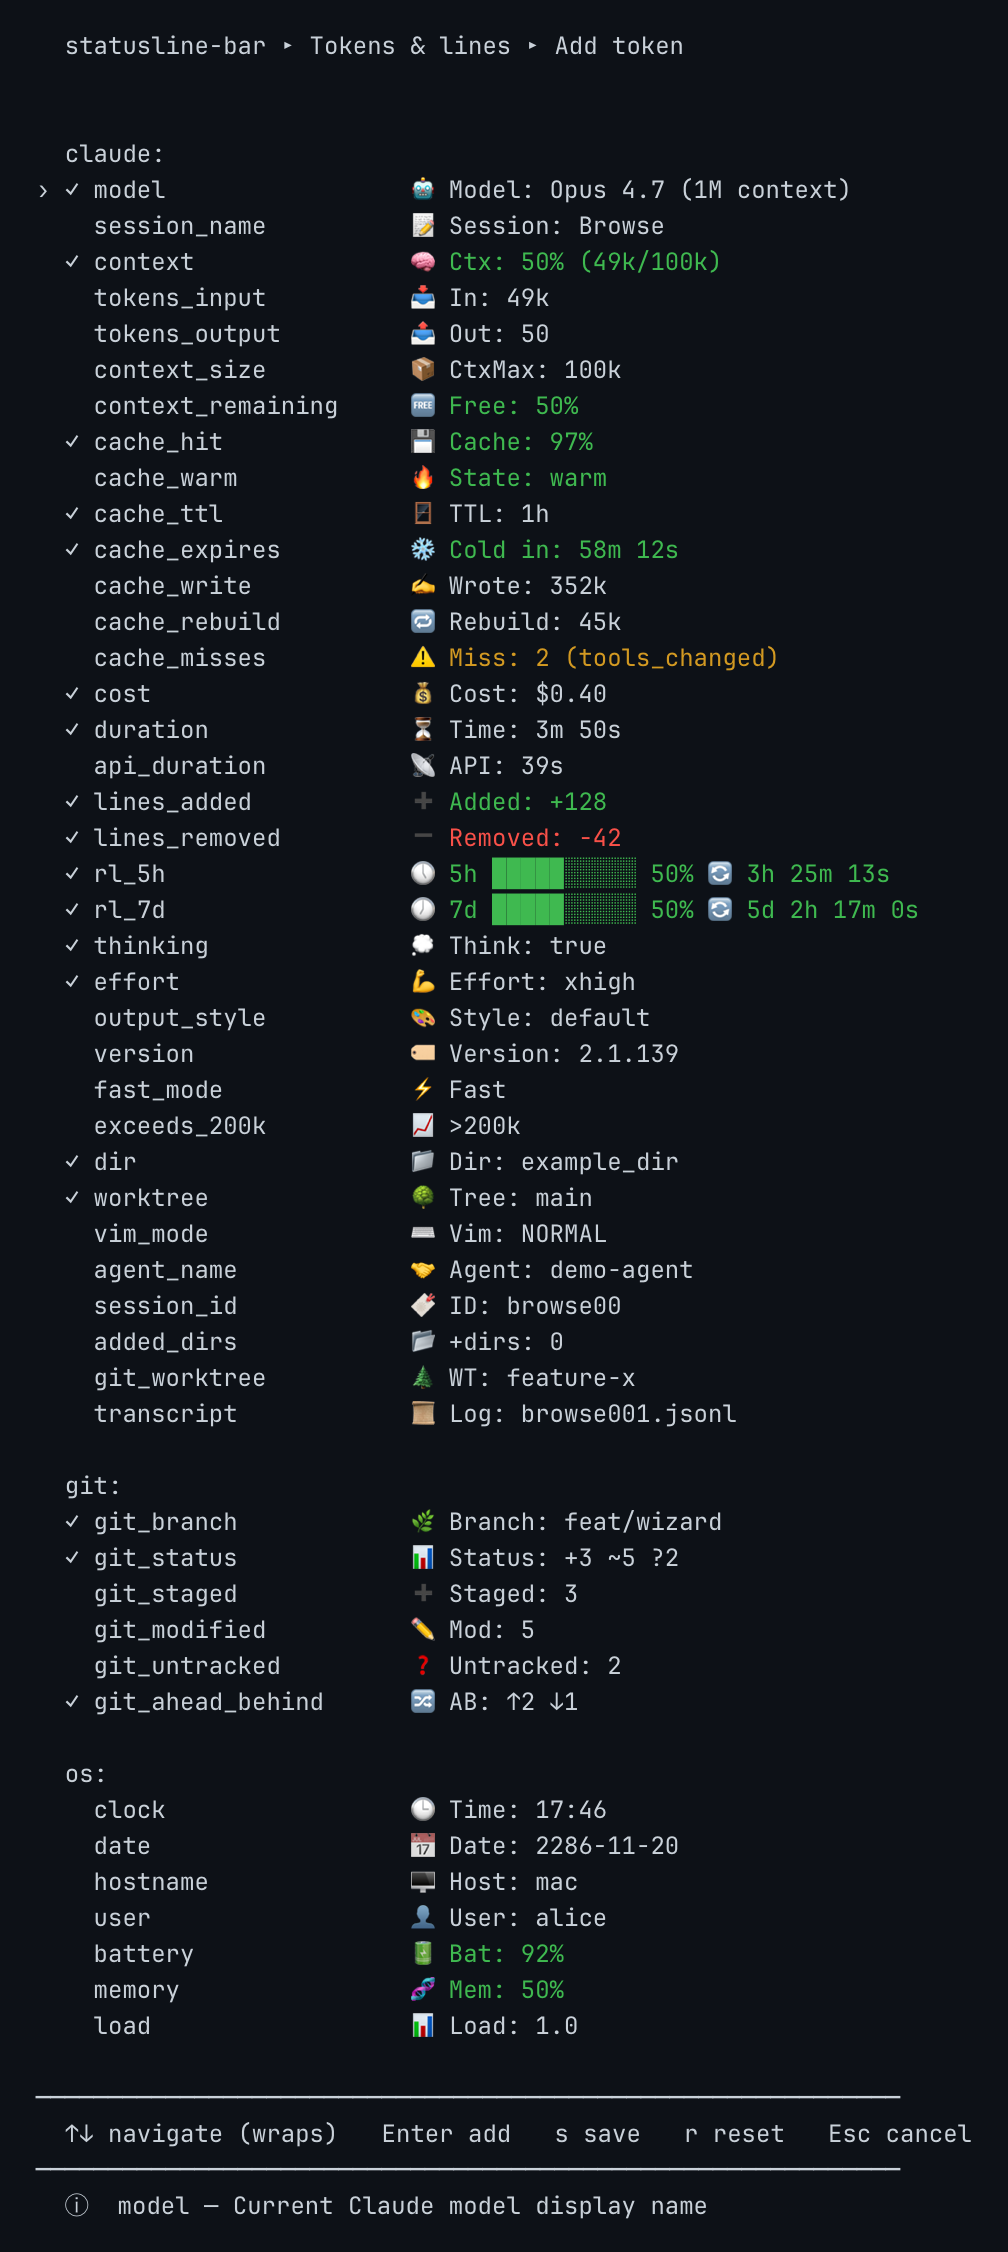
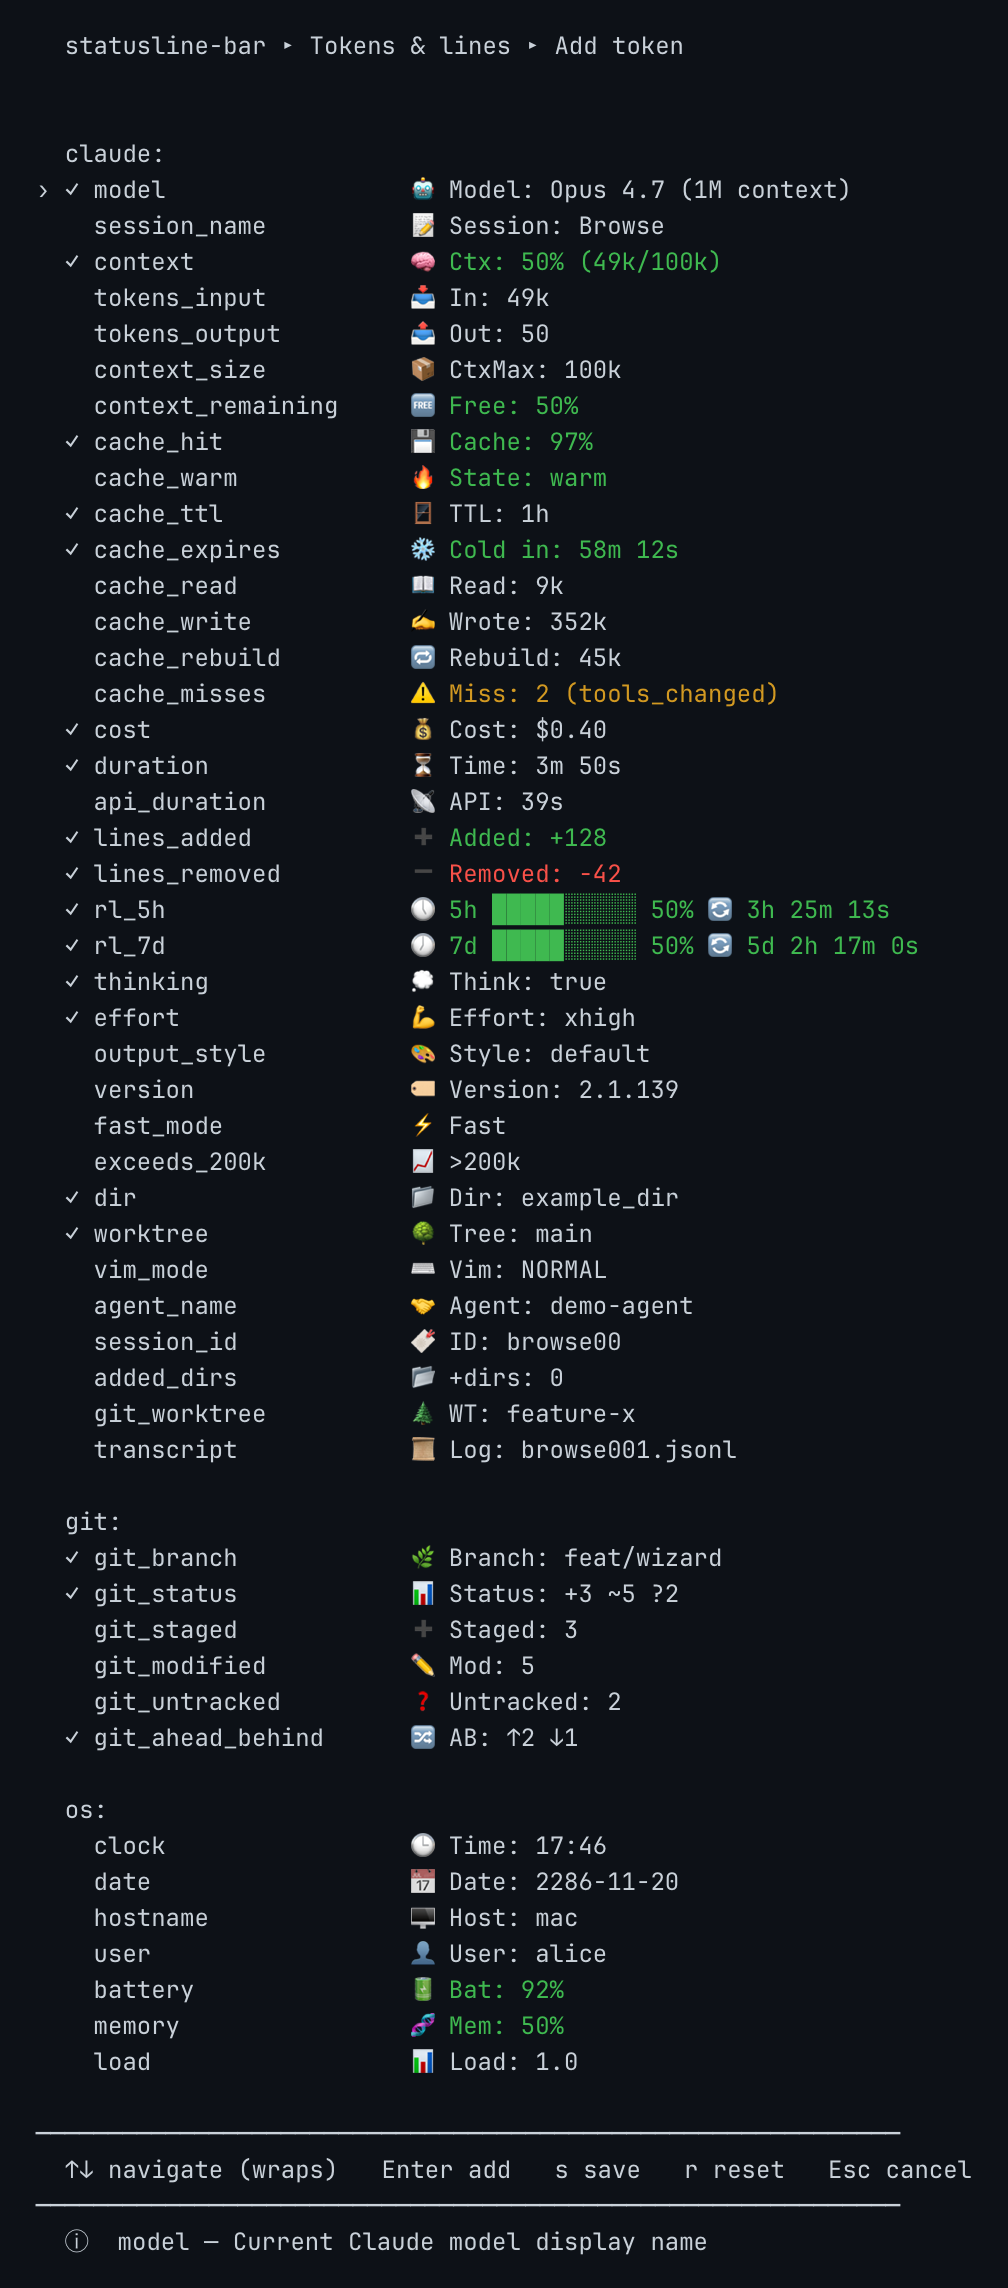
feat: cache_read token — v0.6.1
Adds cache_read, the tokens the last API call read back out of the
prompt cache, as a raw count. cache_hit gives the ratio and cache_write
the writes; on a warm turn the read count is most of what was sent and
nothing surfaced it.

Source is context_window.current_usage.cache_read_input_tokens, not the
prompt_cache object the other cache counters read — so it also works on
Claude Code older than 2.1.251, and it measures ONE API call where its
neighbours are session-cumulative. That window difference is the trap
this token introduces: cache_read and cache_write have parallel names
and sit next to each other. cache_write is NOT renamed (shipped in
0.6.0, ids appear in user configs); instead _token_description names
each window ("this turn" / "this session"), which the wizard picker,
the --examples catalog and the generated docs all inherit.

Hidden at zero, matching cache_write and cache_rebuild: a zero read is
a cold call, which cache_warm and cache_misses already say better.

Prefixes checked against all 49 icons in use, no collisions:
emoji 📖, nerd  (fa-book), label "Read:", ascii "[Rd]".
"[Cr]" was taken by cache_rebuild; "[CW]"/"[Cw]" by context_size and
cache_write, so a case-only variant was avoided.

Joins the cache preset (9 -> 10 tokens, beside cache_write) and the
everything / maximum presets (48 -> 49). Counts re-derived from the
embedded tables everywhere: 49 tokens total, 36 from the Claude
session. All four positionally-parallel preset arrays re-verified at
[…]

diff --git a/REFERENCE.md b/REFERENCE.md
@@ -1,7 +1,7 @@
 # Reference
 
 Every catalog, the config schema, and the full CLI for
-[statusline-bar](README.md) 0.6.0. All of it is also available live in your own
+[statusline-bar](README.md) 0.6.1. All of it is also available live in your own
 terminal — `statusline-bar.sh --examples [SECTION]` prints the same catalogs at
 your terminal's real color depth. The showroom images below ship in light and
 dark variants and switch with your GitHub theme.
@@ -27,11 +27,11 @@ set afterwards are kept.
 | `default` | 2 lines · 18 tokens | usage row on top (model, context, cost, rate limits, cache expiry); thinking / dir / git / counters / cache hit + TTL / duration below. |
 | `modern` | 2 lines · 9 tokens | git staged/modified inline; rate-limit bars + duration on line 2. |
 | `rates` | 2 lines · 8 tokens | context + cost on top; rate limits with bars and countdowns, cache hit + expiry, and api time below. |
-| `cache` | 2 lines · 9 tokens | context + cost on top; prompt-cache health (hit bar, warm, expiry, TTL, misses, writes) below. |
+| `cache` | 2 lines · 10 tokens | context + cost on top; prompt-cache health (hit bar, warm, expiry, TTL, misses, reads + writes) below. |
 | `claude` | 2 lines · 10 tokens | session info + cost/duration; Claude state (thinking, effort, style, version) below. |
 | `fancy` | 3 lines · 13 tokens | context bar, rate-limit bars, OS chrome (battery, clock), git status. |
-| `everything` | 4 lines · 48 tokens | all 48 tokens, each in its default format. Coverage over compactness. |
-| `maximum` | 4 lines · 48 tokens | the same 48 tokens, but with progress bars, countdowns, and combined views wherever a token offers them. |
+| `everything` | 4 lines · 49 tokens | all 49 tokens, each in its default format. Coverage over compactness. |
+| `maximum` | 4 lines · 49 tokens | the same 49 tokens, but with progress bars, countdowns, and combined views wherever a token offers them. |
 
 <picture>
   <source media="(prefers-color-scheme: dark)" srcset="screenshots/showroom_presets_dark.png">
@@ -149,21 +149,26 @@ style. Any token with a bar can override it with `tokens.<id>.bar_style`.
 
 ## Tokens
 
-48 tokens: 35 read out of the JSON Claude Code pipes in, 6 from `git`, 7 from
+49 tokens: 36 read out of the JSON Claude Code pipes in, 6 from `git`, 7 from
 the machine running the statusline. Each token advertises only the formats that
 make sense for its data; the **bold** one is its default.
 
 <picture>
   <source media="(prefers-color-scheme: dark)" srcset="screenshots/showroom_tokens_dark.png">
-  <img src="screenshots/showroom_tokens_light.png" alt="All 48 tokens rendered alone with inline descriptions">
+  <img src="screenshots/showroom_tokens_light.png" alt="All 49 tokens rendered alone with inline descriptions">
 </picture>
 
-### Claude session (35)
+### Claude session (36)
 
 Read from stdin. A token whose field is absent from the payload renders the
-placeholder (or disappears, under `empty_behavior: hide`) — that is what the
-six `cache_*` tokens do on Claude Code versions older than 2.1.251, which do
-not send a `prompt_cache` object.
+placeholder (or disappears, under `empty_behavior: hide`) — that is what six of
+the eight `cache_*` tokens do on Claude Code versions older than 2.1.251, which
+do not send a `prompt_cache` object. `cache_hit` and `cache_read` are the
+exceptions: both fall back on `context_window`, which every version sends.
+
+Mind the window each cache token counts over. `cache_read` is the **last API
+call**; `cache_hit`, `cache_write` and `cache_misses` are **session totals**.
+Each of those four names its window in its description.
 
 | Token | Icon | Description | Formats |
 |---|---|---|---|
@@ -178,6 +183,7 @@ not send a `prompt_cache` object.
 | `cache_warm` | 🔥 | Whether the prompt cache is still warm (warm/cold) | **`value`** `flag` |
 | `cache_ttl` | 🪟 | Prompt cache lifetime tier (5m or 1h) | **`value`** |
 | `cache_expires` | ❄ | Countdown until the prompt cache goes cold | `value` **`countdown`** `countdown_short` `remaining` `remaining_short` |
+| `cache_read` | 📖 | Tokens read from the prompt cache this turn | `value` **`short`** |
 | `cache_write` | ✍ | Tokens written to the prompt cache this session | `value` **`short`** |
 | `cache_rebuild` | 🔁 | Tokens the next request re-caches if the cache goes cold | `value` **`short`** |
 | `cache_misses` | ⚠ | Prompt-cache misses this session + the latest cause | `value` `cause` **`count+cause`** |
@@ -386,10 +392,10 @@ renders that actual token under every option:
   </tr>
 </table>
 
-`a` from any line opens the token picker: all 48 grouped by source, each row a
+`a` from any line opens the token picker: all 49 grouped by source, each row a
 live sample, with `✓` next to the ones already placed somewhere.
 
-<img src="screenshots/menu_tokens_lines_add_token.png" alt="Token picker: 48 tokens grouped by Claude session, Git and Local OS, each with a rendered sample" width="480">
+<img src="screenshots/menu_tokens_lines_add_token.png" alt="Token picker: 49 tokens grouped by Claude session, Git and Local OS, each with a rendered sample" width="480">
 
 </details>
 

diff --git a/README.md b/README.md
@@ -3,7 +3,7 @@
 A customizable statusline for Claude Code. One bash file and `jq` — no Node, no
 Rust, no daemon, no network calls.
 
-![The default preset rendered and annotated: 18 of 48 tokens across two lines, covering model, context, cost, rate limits, prompt cache, git state, line counters and duration](screenshots/hero.png)
+![The default preset rendered and annotated: 18 of 49 tokens across two lines, covering model, context, cost, rate limits, prompt cache, git state, line counters and duration](screenshots/hero.png)
 
 That is the `default` preset on a dark terminal. Here is the same statusline,
 same session, on a light one:
@@ -13,13 +13,13 @@ same session, on a light one:
 6 of the 21 themes are drawn for a light background and 3 more work on either, so
 light terminals are a first-class target, not an afterthought.
 
-> ### That was 18 tokens. There are **48**.
+> ### That was 18 tokens. There are **49**.
 >
 > Pick any of them, in any order, across up to four lines.
 
 <picture>
   <source media="(prefers-color-scheme: dark)" srcset="screenshots/showroom_tokens_dark.png">
-  <img src="screenshots/showroom_tokens_light.png" alt="All 48 tokens rendered individually with their descriptions: 35 read from the JSON Claude Code pipes in, 6 from git, 7 from the local machine">
+  <img src="screenshots/showroom_tokens_light.png" alt="All 49 tokens rendered individually with their descriptions: 36 read from the JSON Claude Code pipes in, 6 from git, 7 from the local machine">
 </picture>
 
 <details>
@@ -37,7 +37,7 @@ light terminals are a first-class target, not an afterthought.
 The Claude Code ecosystem already has a dozen good statuslines, each strong at
 one thing. This is an attempt at one tool that does all of it:
 
-- **Every useful field.** 48 tokens — model, cost, context, prompt-cache
+- **Every useful field.** 49 tokens — model, cost, context, prompt-cache
   health, 5h and 7d rate limits with countdowns, git branch and status and
   ahead/behind, vim mode, agent name, session id, plus free local readouts like
   clock, battery, memory and load.
@@ -167,7 +167,7 @@ force a refresh, type `/` in Claude Code and pick any slash command.
 
 ## What you can change
 
-Twelve presets, from three tokens on one line to all 48 across four:
+Twelve presets, from three tokens on one line to all 49 across four:
 
 <table>
   <tr>
@@ -206,7 +206,7 @@ is swappable, globally or one at a time:
 
 | | |
 |---|---|
-| **48 tokens** | 35 from Claude Code's stdin JSON, 6 from `git`, 7 from the local machine |
+| **49 tokens** | 36 from Claude Code's stdin JSON, 6 from `git`, 7 from the local machine |
 | **12 presets** | 1-line `minimum` `compact` `focus` `coder` · 2-line `default` `modern` `rates` `cache` `claude` · 3-line `fancy` · 4-line `everything` `maximum` |
 | **21 themes** | 3 adaptive, 6 for light terminals, 12 for dark |
 | **8 prefix styles** | `none` `label` `emoji` `nerd` `ascii` and three combinations |

diff --git a/CHANGELOG.md b/CHANGELOG.md
@@ -2,6 +2,14 @@
 
 Release history for [statusline-bar](README.md). Newest first.
 
+## 0.6.1 — 2026-09-19
+
+- **New `cache_read` token** — the tokens the last API call read back out of the prompt cache, as a raw count (`📖 201k`). `cache_hit` gives the ratio and `cache_write` the writes; on a warm turn the read count is most of what was sent, and nothing showed it. Formats `value` and `short`, `short` by default. It renders nothing at zero, and nothing on a payload with no `context_window.current_usage` — but it does not need the `prompt_cache` object the other cache counters read, so it works on Claude Code versions older than 2.1.251 too.
+- **`cache_read` counts one API call, not the session.** `cache_write` and `cache_misses` are session totals and `cache_hit` a session ratio; `cache_read` is the most recent request alone. The two names are parallel, they sit next to each other, and nothing in the ids says they count over different spans — so `cache_read`'s description names its window, and [REFERENCE.md](REFERENCE.md#tokens) states the split above the token table.
+- **`cache_read` joins three presets.** `cache` goes from 9 tokens to 10, beside `cache_write`; `everything` and `maximum` from 48 to 49. A config that already carries its own `lines` array keeps the layout it has — the stored lines outrank the preset.
+
+Tests: 179 e2e cases passing.
+
 ## 0.6.0 — 2026-09-14
 
 - **Six new prompt-cache tokens.** Claude Code 2.1.251+ ships a `prompt_cache` object in the statusline payload; `cache_warm`, `cache_expires`, `cache_ttl`, `cache_misses`, `cache_rebuild` and `cache_write` surface it. `cache_misses` shows the latest diagnosed cause alongside the count (`2 (tools_changed)`) via the new `cause` and `count+cause` formats. All six render nothing on older Claude Code versions, where the object is absent.
